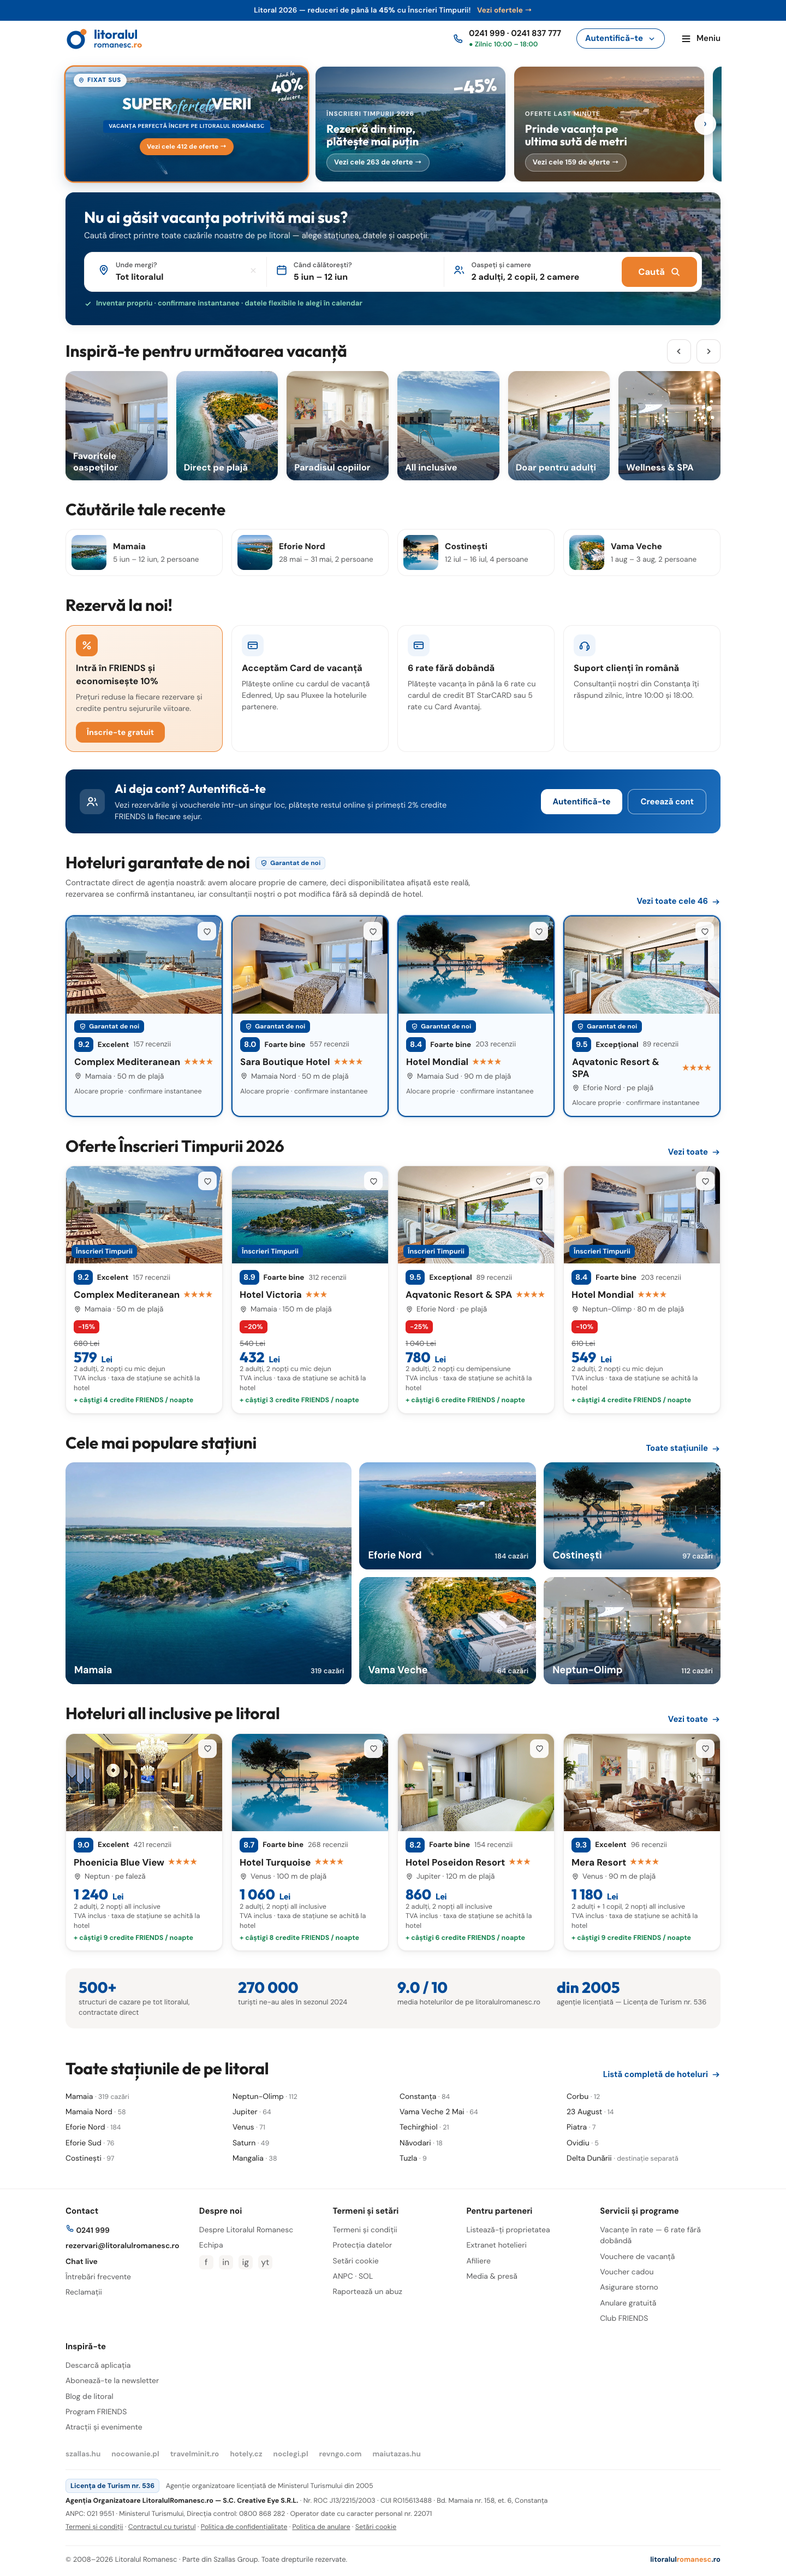
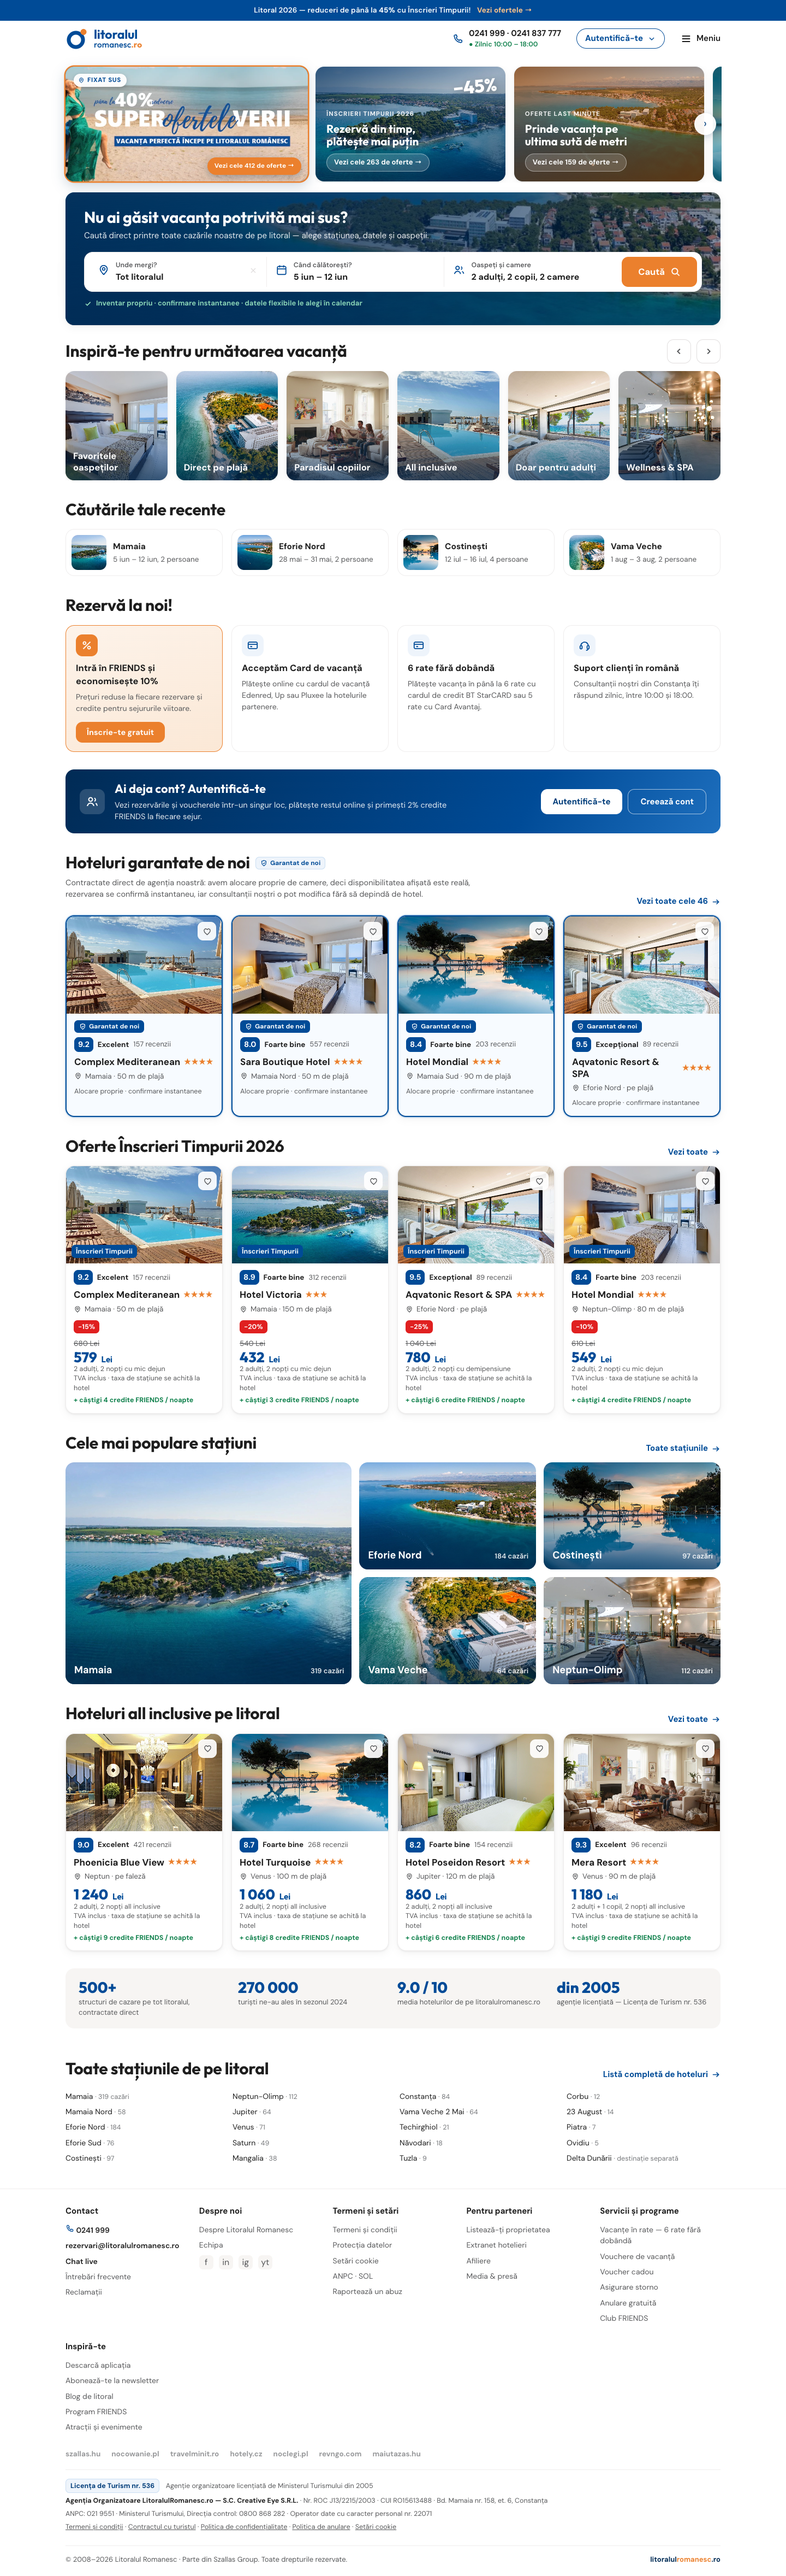
Put the real campaign creative on the pinned card
The banner comes straight off production
(assets/dist/images/header/Banner_ofertele_verii_adela_2*.webp): the wide
1140x260 one for the band, the tighter 856x280 phone one for the card in the
carousel row, where a 4.4:1 strip would crop past readable. The hand-built
lockup it replaces is gone, along with the two script webfonts it needed —
over the creative's own type it would only collide.

Sizes follow the creative, not the other way round: the band keeps its
aspect so nothing is cut, and the pinned card is cropped towards the lockup
(62% on desktop, 66% on mobile, where the card also widens to 88% — below
that the crop eats into "SUPERofertele VERII"). Only the pin marker and the
CTA sit on top, and on the phone band the CTA shrinks so it clears the
creative's own ribbon.

Changed region(s): [[0.0625, 0.0, 0.4062, 0.0936]]

diff --git a/proto.css b/proto.css
@@ -503,14 +503,18 @@ body[data-auth="in"] .loyal-band { display: none; }
 body[data-export] .ssearch { display: none; }
 
 /* ============================================================
-   CARD FIXAT SUS PE CARUSELUL DE CAMPANII (mecanism de „pin")
-   Primul loc din carusel poate fi scos din rotație și fixat:
-   „Banner" = bandă lată deasupra caruselului, care nu se mai
-   derulează; „Lat" = tot primul card, dar dublu și în bandă.
+   CARD FIXAT PE CARUSELUL DE CAMPANII (mecanism de „pin")
+   Primul loc din carusel poate fi scos din rotație: „Banner" = bandă
+   lată deasupra caruselului, „În linie" = tot primul card, dar scos
+   din pista derulabilă, deci restul campaniilor trec pe lângă el.
+   Creația e bannerul de campanie de pe producție, așa cum e —
+   peste el punem doar marcajul de fixare și CTA-ul.
    ============================================================ */
 .hc-pin { position: relative; display: block; overflow: hidden; color: #fff; text-decoration: none;
   border-radius: var(--r-l); box-shadow: var(--shadow-card); background: var(--navy-500); }
-.hc-pin.pin-band { height: 232px; margin-bottom: 14px; }   /* modul „banner": bandă lată deasupra caruselului */
+/* bandă: lăsăm bannerul la proporția lui, deci nimic nu se taie */
+.hc-pin.pin-band { margin-bottom: 14px; }
+.hc-pin.pin-band .pin-bg { display: block; width: 100%; height: auto; }
 /* modul „în linie": primul loc din carusel, scos din derulare — cardurile trec pe lângă el */
 .hero-carousel.pin-inline { display: flex; align-items: stretch; gap: 16px; }
 .hero-carousel.pin-inline > .hc-pin { flex: 0 0 37%; height: 210px; }
@@ -519,39 +523,14 @@ body[data-export] .ssearch { display: none; }
 .hero-carousel.pin-inline .hc-arrow.prev { left: calc(37% + 24px); }
 /* cardul fixat e și evidențiat: inel portocaliu, ca să se citească drept „primul, scos în față" */
 .hc-pin.pin-sm { box-shadow: 0 0 0 2.5px var(--orange-500), 0 8px 24px rgba(1,43,85,.22); }
-.hc-pin .pin-bg { position: absolute; inset: 0; width: 100%; height: 100%; object-fit: cover; object-position: 50% 58%; z-index: 0; }
+/* pe lățimea unui card intră varianta de telefon a creației, decupată spre lockup */
+.hc-pin.pin-sm .pin-bg { position: absolute; inset: 0; width: 100%; height: 100%; object-fit: cover; object-position: 62% center; }
 /* cu bannerul deasupra, săgețile caruselului trebuie să rămână pe mijlocul benzii de carduri, nu pe mijlocul secțiunii */
 .hero-carousel.has-pin .hc-arrow { top: auto; bottom: 85px; transform: none; }
-/* voal: stânga deschisă (scrisul de mână navy), dreapta mai adâncă (lockup-ul alb) */
-.hc-pin::after { content: ""; position: absolute; inset: 0; z-index: 1;
-  background: linear-gradient(100deg, rgba(233,244,250,.80) 0%, rgba(226,241,249,.52) 26%, rgba(3,60,116,.30) 58%, rgba(2,48,95,.62) 100%); }
-.hc-pin .pin-art { position: relative; z-index: 2; height: 100%; display: flex; align-items: center; gap: 26px; padding: 0 46px 0 30px; }
-.hc-pin .pin-disc { flex: none; transform: rotate(-9deg); text-align: center; color: var(--navy-500); font-family: var(--font-script, "Caveat"), cursive; line-height: .96; }
-.hc-pin .pin-disc .l1 { display: block; font-size: 21px; font-weight: 700; }
-.hc-pin .pin-disc .l2 { display: block; font-family: var(--font-title); font-size: 52px; font-weight: 800; letter-spacing: -1.5px; }
-.hc-pin .pin-disc .l3 { display: block; font-size: 23px; font-weight: 700; }
-.hc-pin .pin-mid { min-width: 0; margin-left: auto; display: flex; flex-direction: column; align-items: center; text-align: center; }
-.hc-pin .pin-lock { display: flex; align-items: baseline; justify-content: center; white-space: nowrap; text-shadow: 0 3px 18px rgba(1,34,68,.42); }
-.hc-pin .pin-lock .w1, .hc-pin .pin-lock .w3 { font-family: var(--font-title); font-size: 47px; font-weight: 800; letter-spacing: -.5px; color: #fff; }
-.hc-pin .pin-lock .w2 { font-family: var(--font-brush, "Kaushan Script"), cursive; font-size: 44px; color: #7FD4F5; margin: 0 -6px; position: relative; top: 4px; }
-.hc-pin .pin-rib { display: inline-block; margin-top: 12px; background: var(--navy-500); color: #fff;
-  font-size: 13.5px; font-weight: 700; letter-spacing: .6px; text-transform: uppercase; padding: 7px 18px; border-radius: 4px; }
 .hc-pin .pin-badge { position: absolute; left: 15px; top: 13px; z-index: 3; display: inline-flex; align-items: center; gap: 5px;
   background: rgba(255,255,255,.94); color: var(--navy-500); font-size: 11.5px; font-weight: 800; text-transform: uppercase;
   letter-spacing: .6px; border-radius: 100px; padding: 4px 10px 4px 8px; box-shadow: 0 2px 8px rgba(0,0,0,.18); }
-.hc-pin .pin-cta { display: inline-flex; align-items: center; gap: 6px; margin-top: 14px;
-  background: var(--orange-500); color: #fff; font-size: 13.5px; font-weight: 700; border-radius: 100px; padding: 9px 18px; box-shadow: 0 4px 14px rgba(0,0,0,.24); }
-.hc-pin:hover .pin-cta { background: #fff; color: var(--navy-700); }
-/* modul „în linie": aceeași creație, dar pe lățimea unui card — procentul urcă în colț,
-   ca lockup-ul să rămână lizibil (altfel cele două s-ar bate pe aceeași lățime) */
-.hc-pin.pin-sm::after { background: linear-gradient(150deg, rgba(233,244,250,.34) 0%, rgba(3,60,116,.42) 46%, rgba(2,48,95,.72) 100%); }
-.hc-pin.pin-sm .pin-art { padding: 0 16px; justify-content: center; }
-.hc-pin.pin-sm .pin-disc { position: absolute; right: 10px; top: 8px; z-index: 3; color: #fff; text-shadow: 0 2px 10px rgba(1,34,68,.5); }
-.hc-pin.pin-sm .pin-disc .l1 { font-size: 13px; }
-.hc-pin.pin-sm .pin-disc .l2 { font-size: 31px; letter-spacing: -1px; }
-.hc-pin.pin-sm .pin-disc .l3 { font-size: 14px; }
-.hc-pin.pin-sm .pin-mid { margin: 0 auto; }
-.hc-pin.pin-sm .pin-lock .w1, .hc-pin.pin-sm .pin-lock .w3 { font-size: 29px; }
-.hc-pin.pin-sm .pin-lock .w2 { font-size: 27px; margin: 0 -4px; top: 3px; }
-.hc-pin.pin-sm .pin-rib { font-size: 10px; letter-spacing: .4px; padding: 5px 10px; margin-top: 9px; white-space: normal; line-height: 1.25; }
-.hc-pin.pin-sm .pin-cta { font-size: 12px; padding: 7px 13px; margin-top: 10px; }
+.hc-pin .pin-cta { position: absolute; right: 16px; bottom: 14px; z-index: 3; display: inline-flex; align-items: center; gap: 6px;
+  background: var(--orange-500); color: #fff; font-size: 13.5px; font-weight: 700; border-radius: 100px; padding: 9px 18px; box-shadow: 0 4px 14px rgba(1,43,85,.30); }
+.hc-pin:hover .pin-cta { background: var(--navy-500); }
+.hc-pin.pin-sm .pin-cta { font-size: 12px; padding: 7px 13px; right: 12px; bottom: 12px; }

diff --git a/litro-m.css b/litro-m.css
@@ -198,36 +198,23 @@ h3.m-h3 { font-family: var(--font-title); font-size: 16.5px; font-weight: 700; }
 .hc-rate { position: absolute; left: 12px; top: 10px; z-index: 3; background: var(--navy-500); color: #fff; font-weight: 800; font-size: 13px; border-radius: 8px; padding: 3px 8px; }
 .hc-loc { font-family: var(--font-body); font-size: 12px; font-weight: 600; opacity: .92; }
 /* ---- card fixat pe caruselul de campanii (comutator de prototip) ----
-   „Banner" = bandă lată deasupra pistei, scoasă din derulare.
-   „În linie" = primul card din pistă, dar lipit de marginea stângă:
-   celelalte campanii trec pe lângă el, el rămâne mereu primul. */
+   „Banner" = creația de campanie pe toată lățimea, deasupra pistei, la proporția ei.
+   „În linie" = primul card din pistă, evidențiat, cu creația decupată spre lockup. */
 .hc-pin { position: relative; display: block; overflow: hidden; color: #fff; border-radius: var(--r-l); box-shadow: var(--shadow-card); background: var(--navy-500); }
-.hc-pin .pin-bg { position: absolute; inset: 0; width: 100%; height: 100%; object-fit: cover; object-position: 50% 58%; z-index: 0; }
-.hc-pin::after { content: ""; position: absolute; inset: 0; z-index: 1;
-  background: linear-gradient(150deg, rgba(233,244,250,.30) 0%, rgba(3,60,116,.46) 46%, rgba(2,48,95,.76) 100%); }
-.hc-pin .pin-art { position: relative; z-index: 2; height: 100%; display: flex; align-items: center; justify-content: center; padding: 30px 14px 10px; }
-.hc-pin .pin-mid { display: flex; flex-direction: column; align-items: center; text-align: center; }
-.hc-pin .pin-lock { display: flex; align-items: baseline; justify-content: center; white-space: nowrap; text-shadow: 0 3px 16px rgba(1,34,68,.5); }
-.hc-pin .pin-lock .w1, .hc-pin .pin-lock .w3 { font-family: var(--font-title); font-size: 25px; font-weight: 800; letter-spacing: -.4px; color: #fff; }
-.hc-pin .pin-lock .w2 { font-family: "Kaushan Script", cursive; font-size: 23px; color: #7FD4F5; margin: 0 -3px; position: relative; top: 3px; }
-.hc-pin .pin-rib { display: inline-block; margin-top: 8px; background: var(--navy-500); color: #fff;
-  font-size: 9.5px; font-weight: 700; letter-spacing: .4px; text-transform: uppercase; padding: 5px 10px; border-radius: 4px; line-height: 1.25; }
-.hc-pin .pin-cta { display: inline-flex; align-items: center; gap: 5px; margin-top: 9px;
-  background: var(--orange-500); color: #fff; font-size: 12px; font-weight: 700; border-radius: 100px; padding: 6px 13px; }
-/* procentul stă în colț, pe un rând, ca să nu intre peste lockup pe lățimea unui telefon */
-.hc-pin .pin-disc { position: absolute; right: 10px; top: 8px; z-index: 3; display: flex; align-items: baseline; gap: 4px; color: #fff;
-  transform: rotate(-5deg); font-family: "Caveat", cursive; text-shadow: 0 2px 10px rgba(1,34,68,.55); }
-.hc-pin .pin-disc .l1 { font-size: 12px; font-weight: 700; }
-.hc-pin .pin-disc .l2 { font-family: var(--font-title); font-size: 22px; font-weight: 800; letter-spacing: -.6px; }
-.hc-pin .pin-disc .l3 { font-size: 12px; font-weight: 700; }
+.hc .hc-pin.pin-band { margin: 0 var(--pad) 12px; }
+.hc-pin.pin-band .pin-bg { display: block; width: 100%; height: auto; }
+/* cardul fixat e mai lat decât celelalte (88% față de 78%): sub atât, decupajul
+   ar tăia din „SUPERofertele VERII" — lockup-ul are 460 px din 856 ai creației */
+.hc-track > .hc-pin.pin-sm { flex: 0 0 88%; height: 178px; scroll-snap-align: center;
+  box-shadow: 0 0 0 2.5px var(--orange-500), 0 6px 20px rgba(1,43,85,.28); }
+.hc-pin.pin-sm .pin-bg { position: absolute; inset: 0; width: 100%; height: 100%; object-fit: cover; object-position: 66% center; }
 .hc-pin .pin-badge { position: absolute; left: 10px; top: 8px; z-index: 3; display: inline-flex; align-items: center; gap: 4px;
   background: rgba(255,255,255,.94); color: var(--navy-500); font-size: 10px; font-weight: 800; text-transform: uppercase;
   letter-spacing: .5px; border-radius: 100px; padding: 3px 9px 3px 7px; }
-.hc .hc-pin.pin-band { display: block; height: 138px; margin: 0 var(--pad) 12px; }
-/* pe telefon cardul fixat rămâne primul din pistă și evidențiat, dar NU lipit de margine:
-   la 390 px un card lipit ar acoperi pista și restul campaniilor s-ar vedea pe o fâșie */
-.hc-track > .hc-pin.pin-sm { flex: 0 0 78%; height: 178px; scroll-snap-align: center;
-  box-shadow: 0 0 0 2.5px var(--orange-500), 0 6px 20px rgba(1,43,85,.28); }
+.hc-pin .pin-cta { position: absolute; right: 10px; bottom: 10px; z-index: 3; display: inline-flex; align-items: center; gap: 5px;
+  background: var(--orange-500); color: #fff; font-size: 12px; font-weight: 700; border-radius: 100px; padding: 6px 13px; box-shadow: 0 4px 12px rgba(1,43,85,.3); }
+/* banda pe telefon are ~110 px: un CTA de dimensiunea celui din card ar sta peste panglica creației */
+.hc-pin.pin-band .pin-cta { font-size: 11px; padding: 5px 11px; right: 8px; bottom: 7px; }
 
 .hc-dots { display: flex; justify-content: center; gap: 5px; padding: 8px 0 2px; }
 .hc-dots i { width: 6px; height: 6px; border-radius: 50%; background: var(--gray-400); }

diff --git a/proto.js b/proto.js
@@ -707,29 +707,17 @@
      Creația e compusă din text real (nu un JPG), ca să iasă editabilă în
      Figma și să existe în ambele limbi.
      ============================================================ */
-  function pinFonts() {
-    if ($('#pin-fonts')) return;
-    const l = document.createElement('link');
-    l.id = 'pin-fonts'; l.rel = 'stylesheet';
-    l.href = 'https://fonts.googleapis.com/css2?family=Caveat:wght@600;700&family=Kaushan+Script&display=swap';
-    document.head.appendChild(l);
-  }
-  function pinCard() {
+  /* Creația e bannerul de campanie de pe producție (assets/promo-super-oferte*.webp):
+     varianta lată pentru bandă, cea de telefon — mai strânsă — pentru cardul din linie,
+     unde o bandă de 4,4:1 s-ar tăia până la ilizibil. */
+  function pinCard(mode) {
     const a = el('a', 'hc-pin');
     a.href = listingHref() + qs();
     a.innerHTML =
-      '<img class="pin-bg" src="assets/coastline.jpg" alt="">' +
+      '<img class="pin-bg" src="assets/promo-super-oferte' + (mode === 'banner' ? '-desktop' : '') + '.webp" ' +
+      'alt="' + lang('Superofertele verii — până la 40% reducere', 'Summer super deals — up to 40% off') + '">' +
       '<span class="pin-badge"><svg width="12" height="12"><use href="#i-pin"/></svg>' + lang('Fixat sus', 'Pinned') + '</span>' +
-      '<span class="pin-art">' +
-      '<span class="pin-disc"><span class="l1">' + lang('până la', 'up to') + '</span>' +
-      '<span class="l2">40%</span><span class="l3">' + lang('reducere', 'off') + '</span></span>' +
-      '<span class="pin-mid">' +
-      '<span class="pin-lock"><span class="w1">SUPER</span><span class="w2">' + lang('ofertele', 'summer') + '</span>' +
-      '<span class="w3">' + lang('VERII', 'DEALS') + '</span></span>' +
-      '<span class="pin-rib">' + lang('Vacanța perfectă începe pe litoralul românesc',
-        'The perfect holiday starts on the Romanian coast') + '</span>' +
-      '<span class="pin-cta">' + lang('Vezi cele 412 de oferte', 'See all 412 offers') + ' →</span>' +
-      '</span></span>';
+      '<span class="pin-cta">' + lang('Vezi cele 412 de oferte', 'See all 412 offers') + ' →</span>';
     return a;
   }
   let pinApply = null;   // setat mai jos; comutatorul din panou îl apelează
@@ -745,8 +733,7 @@
       root.classList.toggle('has-pin', mode === 'banner');
       root.classList.toggle('pin-inline', mode === 'inline');
       if (mode === 'off') return;
-      pinFonts();
-      const c = pinCard();
+      const c = pinCard(mode);
       c.classList.add(mode === 'banner' ? 'pin-band' : 'pin-sm');
       /* în ambele moduri cardul stă în afara pistei derulabile — asta e „fixarea":
          restul campaniilor trec pe lângă el, el rămâne mereu primul și vizibil */

diff --git a/proto-m.js b/proto-m.js
@@ -672,13 +672,6 @@
      Creația e text real (nu un JPG), deci iese editabilă în Figma și în ambele limbi.
      ============================================================ */
   let pinApply = null;
-  function pinFonts() {
-    if ($('#pin-fonts')) return;
-    const l = document.createElement('link');
-    l.id = 'pin-fonts'; l.rel = 'stylesheet';
-    l.href = 'https://fonts.googleapis.com/css2?family=Caveat:wght@600;700&family=Kaushan+Script&display=swap';
-    document.head.appendChild(l);
-  }
   function initPinnedTile() {
     const root = $('.hc[data-carousel]');
     if (!root) return;
@@ -689,21 +682,14 @@
       document.body.dataset.pin = mode;
       const old = $('.hc-pin', root); if (old) old.remove();
       if (mode !== 'off') {
-        pinFonts();
         const a = el('a', 'hc-pin ' + (mode === 'banner' ? 'pin-band' : 'pin-sm'));
         a.href = enp('m-listing.html') + qs();
+        /* creația de campanie de pe producție, varianta pentru telefon */
         a.innerHTML =
-          '<img class="pin-bg" src="assets/coastline.jpg" alt="">' +
+          '<img class="pin-bg" src="assets/promo-super-oferte.webp" alt="' +
+          t('Superofertele verii — până la 40% reducere', 'Summer super deals — up to 40% off') + '">' +
           '<span class="pin-badge"><svg width="11" height="11"><use href="#i-pin"/></svg>' + t('Fixat', 'Pinned') + '</span>' +
-          '<span class="pin-disc"><span class="l1">' + t('până la', 'up to') + '</span><span class="l2">40%</span>' +
-          '<span class="l3">' + t('reducere', 'off') + '</span></span>' +
-          '<span class="pin-art"><span class="pin-mid">' +
-          '<span class="pin-lock"><span class="w1">SUPER</span><span class="w2">' + t('ofertele', 'summer') + '</span>' +
-          '<span class="w3">' + t('VERII', 'DEALS') + '</span></span>' +
-          '<span class="pin-rib">' + t('Vacanța perfectă începe pe litoralul românesc',
-            'The perfect holiday starts on the Romanian coast') + '</span>' +
-          '<span class="pin-cta">' + t('Vezi cele 412 de oferte', 'See all 412 offers') + ' →</span>' +
-          '</span></span>';
+          '<span class="pin-cta">' + t('Vezi cele 412 de oferte', 'See all 412 offers') + ' →</span>';
         if (mode === 'banner') root.insertBefore(a, track);
         else track.insertBefore(a, track.firstElementChild);
       }
